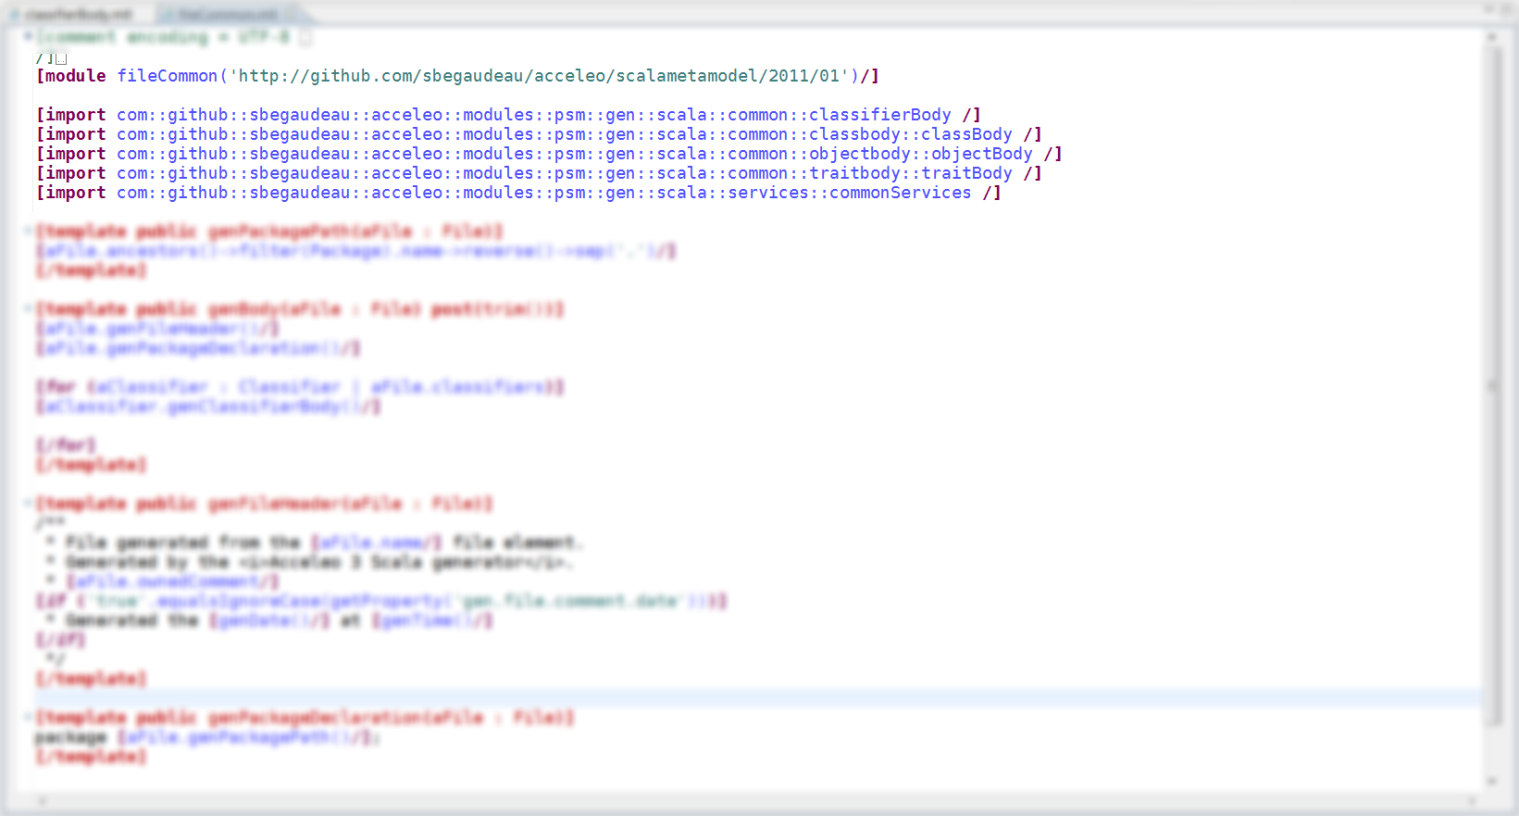
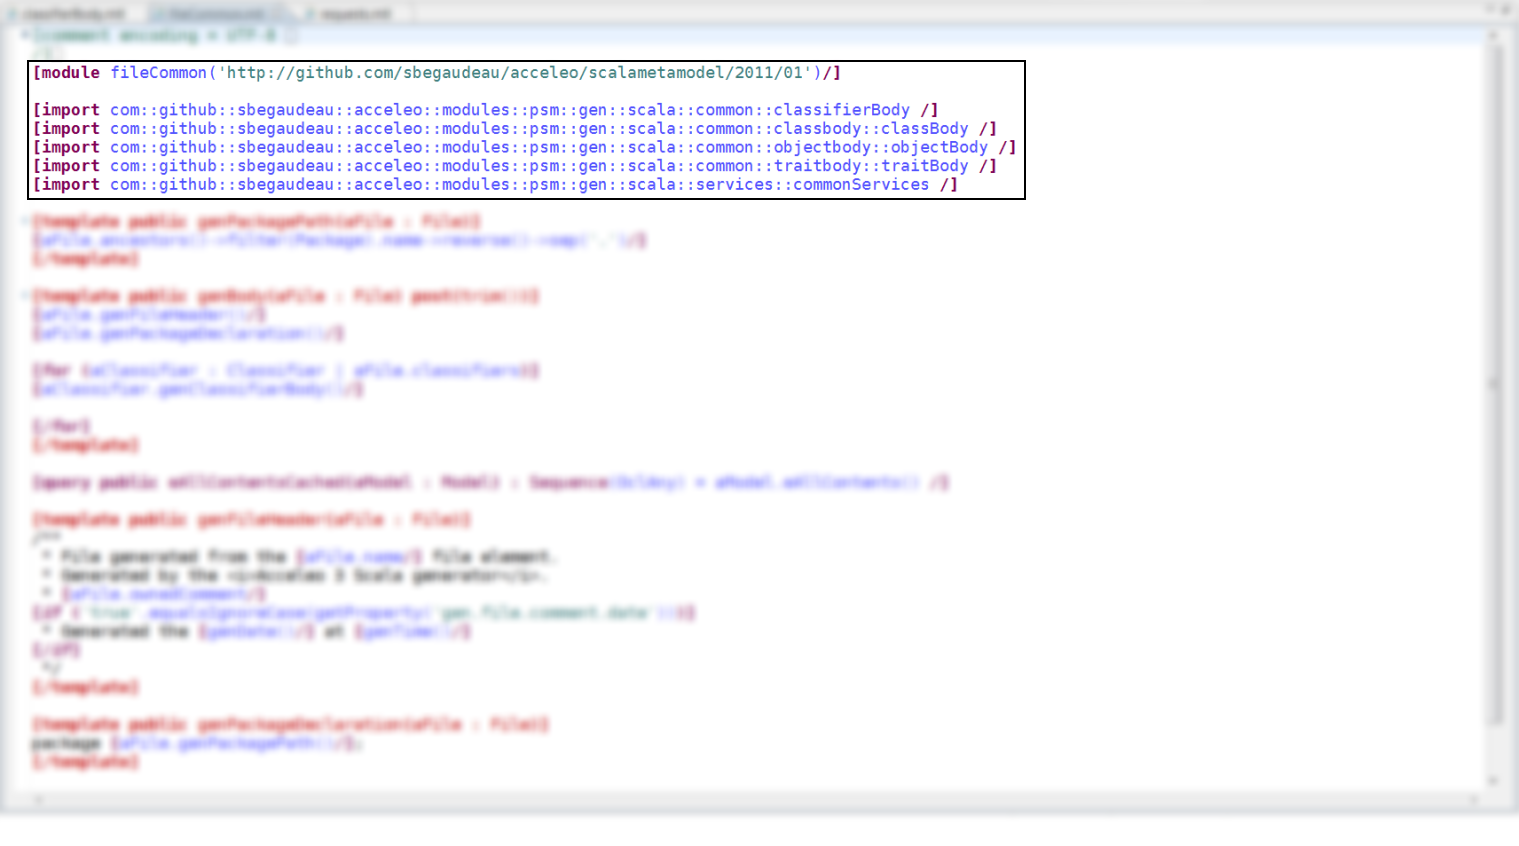
Improved first gallery with new screenshots.

Changed region(s): [[0.0, 0.0, 1.0, 1.0], [0.9592, 0.8578, 0.9901, 0.8885]]

diff --git a/html-presentation-sample/index.html b/html-presentation-sample/index.html
@@ -127,9 +127,9 @@
 				<div class="gallery">
 				</div>
 				<div class="gallery-description">
-					<p class="to-hide img1">The module declaration</p>
-					<p class="to-hide img2">The template declaration</p>
-					<p class="to-hide img3">The query declaration</p>
+					<p class="to-hide img1">Modules</p>
+					<p class="to-hide img2">Templates</p>
+					<p class="to-hide img3">Queries</p>
 				</div>
 			</div>
 			<div class="page-bottom">

diff --git a/html-presentation-sample/css/style.css b/html-presentation-sample/css/style.css
@@ -229,7 +229,7 @@ h1 {
 	background-image: url('../images/page6/template.png');
 }
 .page6 .gallery-page6-img3 {
-	background-image: url('../images/page6/module.png');
+	background-image: url('../images/page6/query.png');
 }
 
 .page7 .acceleo-main {
